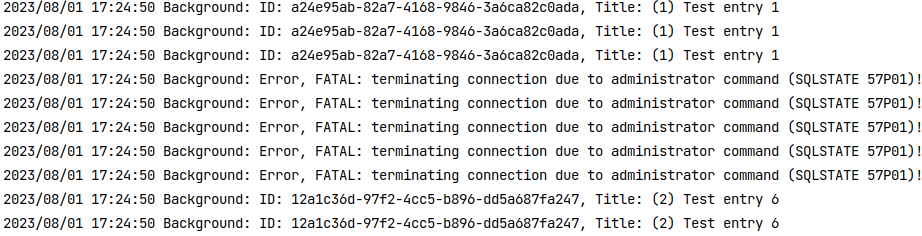
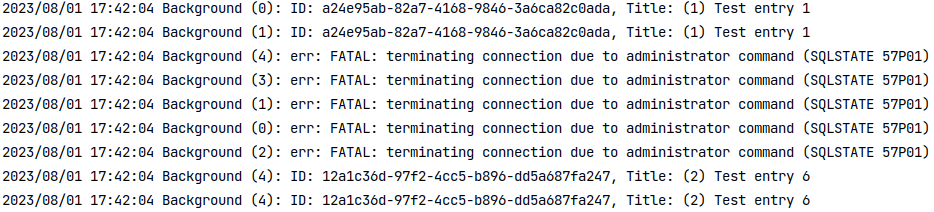
Concurrency

diff --git a/ping.go b/ping.go
@@ -14,18 +14,17 @@ func newPing(storage *storage) *ping {
 	return &ping{storage: storage}
 }
 
-func (p *ping) run() {
-	var row test
+func (p *ping) run(pid int) {
+	var first test
 	var err error
 
 	for {
-		row, err = p.storage.first()
-
+		first, err = p.storage.first()
 		if err != nil {
-			log.Println(fmt.Sprintf("Background: Error, %s!", err.Error()))
+			log.Println(fmt.Sprintf("Background (%d): err: %s", pid, err))
 		} else {
-			log.Println(fmt.Sprintf("Background: ID: %s, Title: %s", row.ID, row.Title))
+			log.Println(fmt.Sprintf("Background (%d): ID: %s, Title: %s", pid, first.ID, first.Title))
 		}
-		time.Sleep(10 * time.Millisecond)
+		time.Sleep(time.Millisecond)
 	}
 }

diff --git a/main.go b/main.go
@@ -11,10 +11,10 @@ func main() {
 	s := newStorage(newConn(connString))
 
 	for i := 0; i < goroutines; i++ {
-		go func(s *storage) {
+		go func(s *storage, pid int) {
 			p := newPing(s)
-			p.run()
-		}(s)
+			p.run(pid)
+		}(s, i)
 	}
 
 	log.Fatal(newHandler(s).init().run())
